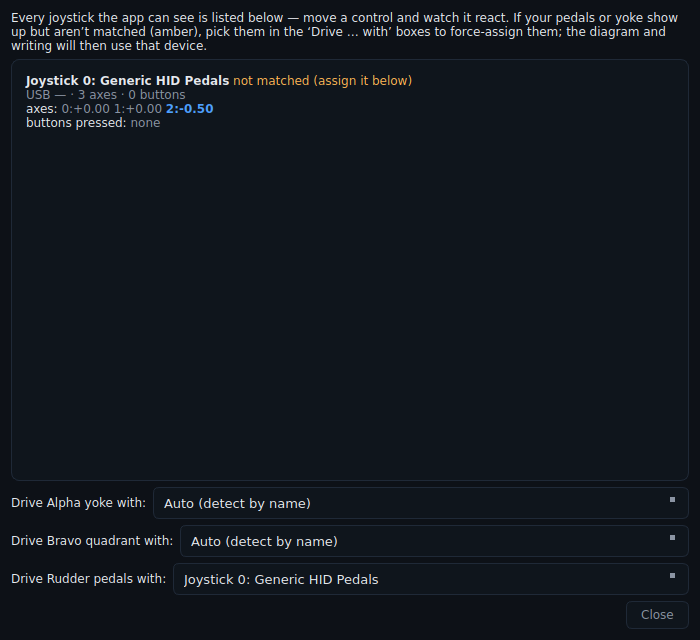
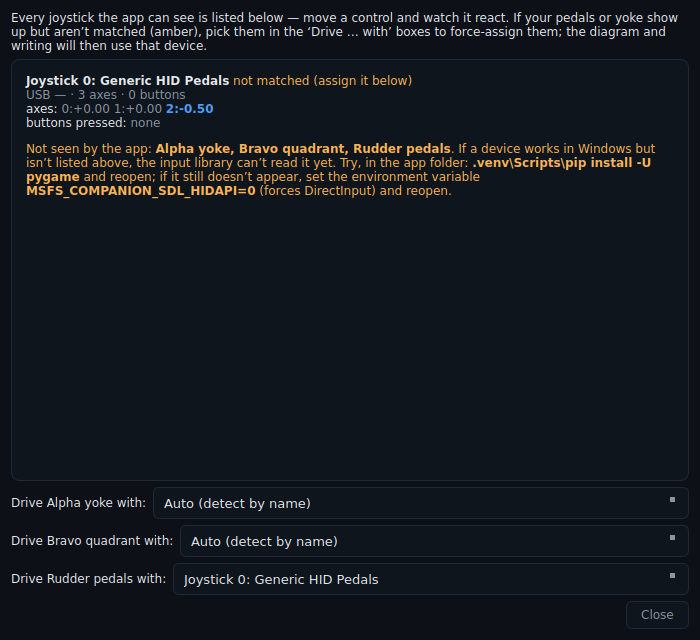
Help SDL see more devices (rudder pedals) + flag devices it can't read
The Hardware dialog revealed the VelocityOne Rudder isn't enumerated by SDL at
all (only Alpha + Bravo appear), so no amount of name-matching or manual
assignment could bind it — you can't assign a device that isn't listed.

- set_sdl_hints() (run before pygame.init): enable background joystick events so
  input is read while MSFS holds focus, and an opt-in MSFS_COMPANION_SDL_HIDAPI
  env toggle to force DirectInput (SDL's HIDAPI driver can hide some pedals).
- Bump pygame to >=2.6 (newer SDL enumerates more devices).
- Diagnostics dialog now names any expected device SDL can't see and gives the
  exact remediation (pip install -U pygame, or MSFS_COMPANION_SDL_HIDAPI=0).

Claude-Session: https://claude.ai/code/session_01LxXQLLJEJeJoDv1k2Rmb4D

Changed region(s): [[0.03, 0.2188, 0.93, 0.3125]]

diff --git a/src/controls_app/devices.py b/src/controls_app/devices.py
@@ -160,6 +160,23 @@ def vid_pid_from_guid(guid: str | None) -> tuple[int | None, int | None]:
     return vendor, product
 
 
+def set_sdl_hints() -> None:
+    """Set SDL joystick hints — MUST run before the first pygame.init().
+
+    - background events: read the sticks while MSFS holds foreground focus.
+    - HIDAPI off (opt-in via env): some pedals/wheels (e.g. certain Turtle Beach
+      units) are only enumerated through DirectInput; SDL's HIDAPI driver can
+      hide them. Set MSFS_COMPANION_SDL_HIDAPI=0 to force DirectInput.
+    """
+    import os
+
+    os.environ.setdefault("SDL_JOYSTICK_ALLOW_BACKGROUND_EVENTS", "1")
+    os.environ.setdefault("SDL_JOYSTICK_THREAD", "1")
+    hidapi = os.environ.get("MSFS_COMPANION_SDL_HIDAPI")
+    if hidapi is not None:
+        os.environ.setdefault("SDL_JOYSTICK_HIDAPI", hidapi)
+
+
 def detect_connected() -> dict[str, bool]:
     """Return {device_id: detected} using pygame's joystick list if available.
 
@@ -172,6 +189,7 @@ def detect_connected() -> dict[str, bool]:
         import os
 
         os.environ.setdefault("SDL_VIDEODRIVER", "dummy")
+        set_sdl_hints()
         import pygame
 
         pygame.init()

diff --git a/src/controls_app/app.py b/src/controls_app/app.py
@@ -502,6 +502,16 @@ class DiagnosticsDialog(QDialog):
                 f"{len(js['axes'])} axes · {js['num_buttons']} buttons</span><br>"
                 f"axes: {axes}<br>buttons pressed: {btns}</p>"
             )
+        seen_ids = {js["matched"] for js in snap if js["matched"]}
+        missing = [label for did, label in self.BINDABLE if did not in seen_ids]
+        if missing:
+            blocks.append(
+                f"<p style='color:{theme.AMBER}'>Not seen by the app: <b>{', '.join(missing)}</b>. "
+                "If a device works in Windows but isn’t listed above, the input library can’t read "
+                "it yet. Try, in the app folder: <b>.venv\\Scripts\\pip install -U pygame</b> and "
+                "reopen; if it still doesn’t appear, set the environment variable "
+                "<b>MSFS_COMPANION_SDL_HIDAPI=0</b> (forces DirectInput) and reopen.</p>"
+            )
         self.view.setHtml("".join(blocks))
 
     def done(self, result: int) -> None:  # noqa: N802

diff --git a/src/controls_app/input_monitor.py b/src/controls_app/input_monitor.py
@@ -8,7 +8,7 @@ from pathlib import Path
 
 from PyQt6.QtCore import QObject, QTimer, pyqtSignal
 
-from .devices import DEVICES, vid_pid_from_guid
+from .devices import DEVICES, set_sdl_hints, vid_pid_from_guid
 
 POLL_MS = 33  # ~30 Hz
 AXIS_EPSILON = 0.01
@@ -63,6 +63,7 @@ class InputMonitor(QObject):
     def start(self) -> None:
         try:
             os.environ.setdefault("SDL_VIDEODRIVER", "dummy")
+            set_sdl_hints()
             import pygame
 
             pygame.init()